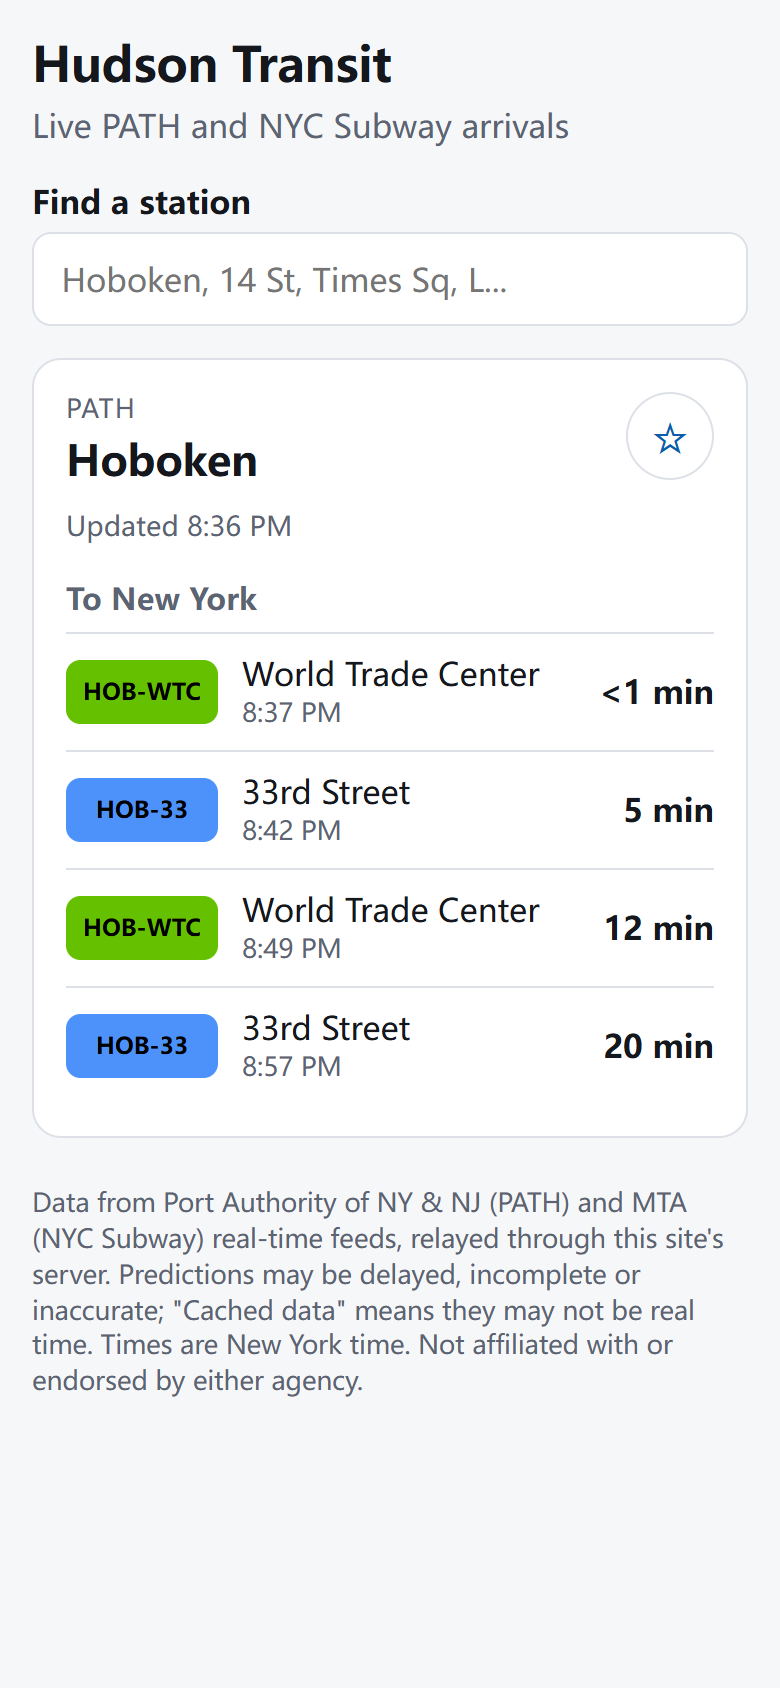
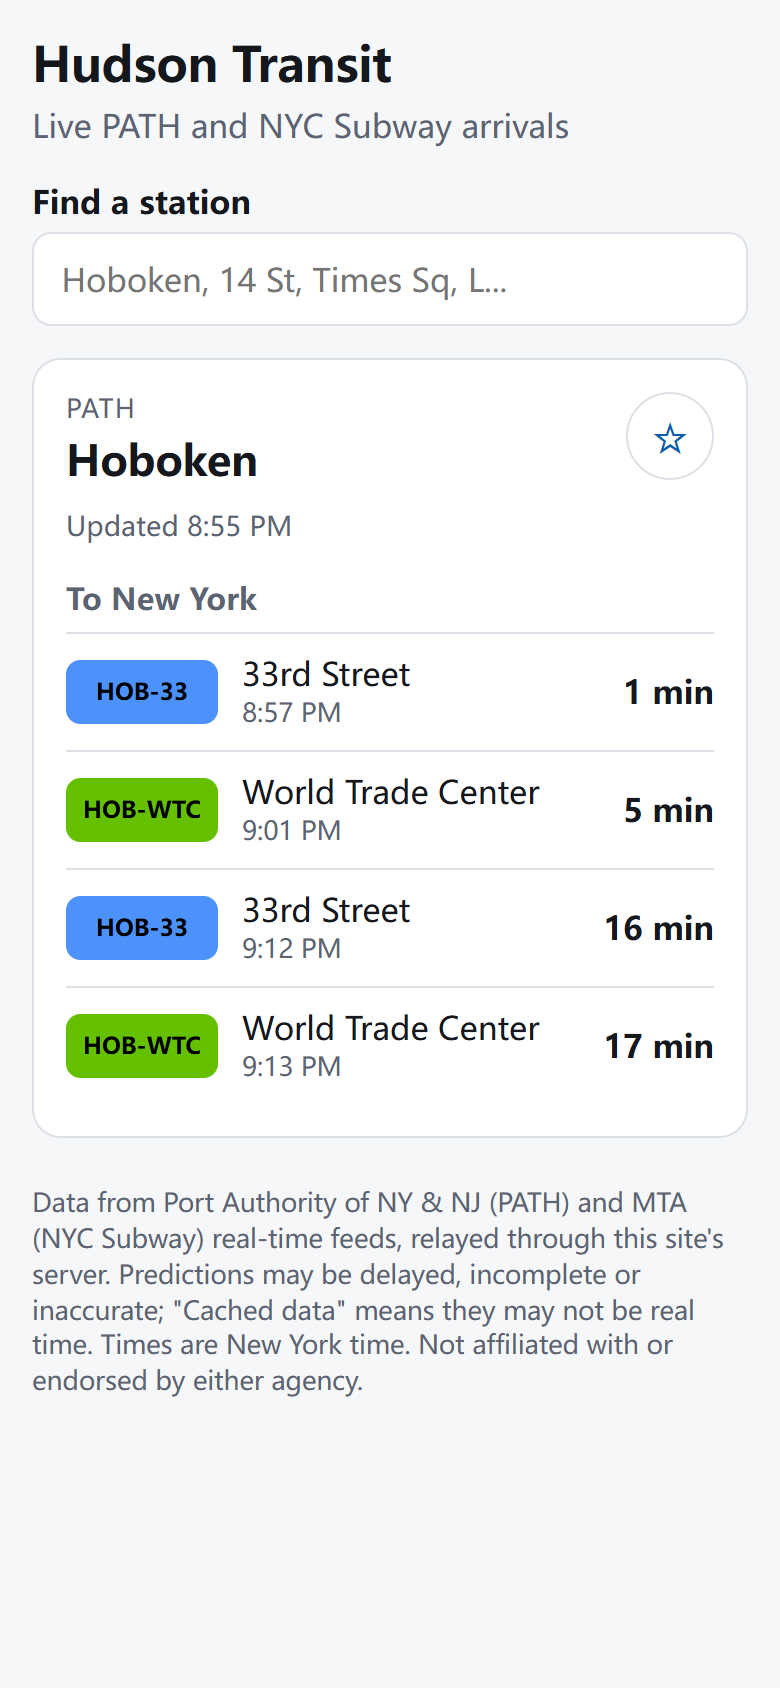
Update README, screenshots and e2e for the board fixes
README: move the probe below the design decisions and trim it to what backs
them, document the per-route cap with the measured before/after, the PATH
shape check, failure backoff and unavailableRoutes, mention
stale-while-revalidate, drop the unbacked 15-30 s refresh claim, and add an
MTA/PATH trademark note. Name is "Yunlong (Adler) Lu" to match the git author.
New e2e test: a board with a failed feed names the missing line instead of
saying there are no trains.

diff --git a/e2e/smoke.spec.ts b/e2e/smoke.spec.ts
@@ -72,6 +72,22 @@ test("favorites persist across reloads", async ({ page }) => {
   ).toHaveText(["14 St-Union Sq"]);
 });
 
+test("says which lines are missing instead of claiming there are no trains", async ({ page }) => {
+  await page.route("**/api/arrivals/*", async (route) => {
+    await route.fulfill({
+      json: {
+        ...board("subway-602", "14 St-Union Sq"),
+        arrivals: [],
+        unavailableRoutes: ["L"],
+        warnings: ["L feed unavailable."],
+      },
+    });
+  });
+  await page.goto("/?station=subway-602");
+  await expect(page.getByText("No live data for L trains right now")).toBeVisible();
+  await expect(page.getByText("No trains predicted in the next hour.")).toHaveCount(0);
+});
+
 test("shows an error with a working retry when the API fails", async ({ page }) => {
   let calls = 0;
   await page.route("**/api/arrivals/*", async (route) => {

diff --git a/README.md b/README.md
@@ -13,58 +13,29 @@ station search, favorites and auto-refresh. No API keys are needed.
 | ---------------------------------------------------------------------------------------- | ----------------------------------------------------------------------------------------------- |
 | <img src="docs/screenshot-light.png" width="260" alt="Hoboken PATH board in light mode"> | <img src="docs/screenshot-dark.png" width="260" alt="14 St-Union Sq subway board in dark mode"> |
 
-Screenshots were captured from live data by `scripts/screenshot.ts` on 2026-09-28 around 8:36 PM ET.
-
-## Results
-
-Upstream feeds and station-index coverage, measured by `npm run probe` (3 rounds, 20 s apart,
-2026-09-29 00:32 UTC, i9-14900HX laptop on a home connection in Hoboken, Node 24). Full output:
-[`results/feed-probe.md`](results/feed-probe.md) / [`results/feed-probe.json`](results/feed-probe.json).
-
-| Feed                   | OK rounds | Median size (KB) | Median fetch (ms) | Median decode + parse (ms) |
-| ---------------------- | --------- | ---------------- | ----------------- | -------------------------- |
-| PATH (`ridepath.json`) | 3/3       | 9.7              | 83                | 1.7                        |
-| MTA 1-7, S             | 3/3       | 176.5            | 143               | 18                         |
-| MTA A/C/E              | 3/3       | 101              | 91                | 5.8                        |
-| MTA B/D/F/M            | 3/3       | 123.9            | 63                | 10.1                       |
-| MTA G                  | 3/3       | 18.6             | 61                | 0.7                        |
-| MTA J/Z                | 3/3       | 23.6             | 53                | 1                          |
-| MTA N/Q/R/W            | 3/3       | 108.1            | 53                | 5                          |
-| MTA L                  | 3/3       | 29.9             | 54                | 3.8                        |
-| MTA SIR                | 3/3       | 6.4              | 44                | 0.5                        |
-
-- Station coverage: in all 3 rounds, 13/13 PATH stations and 445/445 subway complexes had at least one
-  predicted train that the parsers could attach to a named station.
-- About 0.7% of stop references in the MTA feeds (104-105 of ~14,300 per round) use ids that are not in
-  the static GTFS (for example `H19N`, `R60S`); they look like non-revenue timing points. The parser skips
-  them and never shows them as a destination (covered by a unit test).
-- The whole payload for one round (all 9 feeds) is about 600 KB, which is why the server fetches each
-  feed once per TTL and shares it across all stations instead of fetching per request.
-
-Tests: 66 vitest unit tests (parsers and normalizers against committed real snapshots, cache, route
-handler, search, time zones) and 4 Playwright smoke tests against the production build with a mocked
-API. These are correctness tests only; there is no load testing or production traffic data.
+Screenshots were captured from live data by `scripts/screenshot.ts` on 2026-09-28 around 8:55 PM ET.
 
 ## Architecture
 
 ```
 Browser (client component)                    Next.js server (Node runtime)
-+----------------------------+   GET          +------------------------------------------+
-| StationSearch (combobox)   | /api/arrivals/ | route.ts  -> buildBoard(stationId, deps) |
-| favorites (localStorage)   |  path-HOB      |   PATH:   feed cache -> parsePathFeed    |
-| useArrivals: poll 30 s     | -------------> |   Subway: 8 feed caches -> subwayArrivals|
-|   only while tab visible   | <------------- |   trim to next hour, 6 per direction     |
-| relative "N min" from now  |  Board (zod)   |   BoardSchema.parse(board) -> JSON       |
-+----------------------------+                +------------------+-----------------------+
-                                                                 | fetch, 6 s timeout
++----------------------------+   GET          +-------------------------------------------+
+| StationSearch (combobox)   | /api/arrivals/ | route.ts  -> buildBoard(stationId, deps)  |
+| favorites (localStorage)   |  path-HOB      |   PATH:   feed cache -> parsePathFeed     |
+| useArrivals: poll 30 s     | -------------> |   Subway: 8 feed caches -> subwayArrivals |
+|   only while tab visible   | <------------- |   trim: next hour, 3 per route+direction  |
+| relative "N min" from now  |  Board (zod)   |   BoardSchema.parse(board) -> JSON        |
++----------------------------+                +-------------------+-----------------------+
+                                                                  | fetch, 6 s timeout
                                                createFeedCache: TTL 20 s, coalesced,
-                                               stale-if-error up to 5 min
-                                                                 |
+                                               stale-if-error up to 5 min, 20 s failure backoff
+                                                                  |
                                    panynj.gov ridepath.json   api-endpoint.mta.info (x8 protobuf)
 ```
 
 - `src/lib/path.ts`, `src/lib/mta.ts`: pure parsers from raw upstream data to `Arrival[]`.
-- `src/lib/feed-cache.ts`, `src/lib/feeds.ts`: per-feed TTL cache with request coalescing and stale fallback.
+- `src/lib/feed-cache.ts`, `src/lib/feeds.ts`: per-feed TTL cache with request coalescing, stale
+  fallback and failure backoff. The PATH shape check runs inside the loader.
 - `src/lib/board.ts`: station id to `Board`; dependencies are injected so tests run on fixtures.
 - `data/subway-stations.json`: 445 station complexes / 496 stops, generated by `scripts/build-stations.ts`.
 
@@ -97,38 +68,77 @@ npm run fixtures       # re-record tests/fixtures/*
 npm run probe          # rewrite results/feed-probe.{json,md}
 ```
 
+Tests: 78 vitest unit tests (parsers against committed real snapshots, board building with synthetic
+feeds, cache, route handler, search, time zones) and 5 Playwright smoke tests against the production
+build with a mocked API. These are correctness tests only; there is no load testing or production
+traffic data.
+
 ## Design decisions
 
+- **Cap trains per route and direction, not per direction.** At a hub, several lines share one
+  direction label (the 1/2/3, N/Q/R/W and A/C/E platforms at Times Sq all say "Uptown"). An earlier
+  version kept 6 trains per label, so the most frequent lines filled every slot and whole lines
+  vanished. The board now keeps the next hour with at most 3 trains per (direction, route). On live
+  data the old rule hid at least one route at 24-27 of 445 complexes per probe round (at Times Sq:
+  the 3, C, Q or R); the current rule hid none (see [Feed probe](#feed-probe)). A unit test rebuilds
+  Times Sq from the A/C/E snapshot plus synthetic 1/2/3 and N/Q/R/W feeds and fails under the old rule.
 - **Absolute timestamps in the API, relative labels on the client.** The server returns epoch ms and
-  the client computes "in N min" against its own clock every 10 s. A board cached for 15 s at the CDN
-  or kept after a failed refresh therefore still counts down correctly.
+  the client computes "in N min" against its own clock every 10 s. A board cached at the CDN or kept
+  after a failed refresh therefore still counts down correctly.
 - **Explicit time zones.** PATH timestamps carry their UTC offset (`-04:00`) and are parsed with it
   (after trimming microseconds, which ECMAScript does not guarantee to parse); GTFS-rt times are POSIX
   seconds. Clock times are formatted with `timeZone: "America/New_York"`. The unit tests run with
   `TZ=Asia/Tokyo` so code that leans on the machine's zone fails, and they cover the DST fall-back hour.
-- **One shared, short-lived cache per feed with stale-if-error.** Upstreams refresh every ~15-30 s, so
-  a 20 s TTL loses little freshness while turning N concurrent station requests into one upstream call.
-  If a refresh fails, data up to 5 minutes old is served and flagged `stale`; the UI shows "Cached data"
-  instead of a blank board. Past 5 minutes that feed counts as unavailable (503 if no feed has data), because old predictions
-  mislead.
+- **One shared, short-lived cache per feed, with stale-if-error and backoff.** Arrivals are shown in
+  whole minutes, so a 20 s TTL costs little accuracy while N concurrent station requests share one
+  upstream call. If a refresh fails (network error, timeout, non-200, or a PATH body with the wrong
+  shape), data up to 5 minutes old is served and flagged `stale`, and the next retry waits 20 s so a
+  hung upstream does not make every request wait for the 6 s timeout. Past 5 minutes that feed
+  counts as unavailable, because old predictions mislead.
+- **Say what is missing instead of showing an empty board.** Each station's routes map to the feeds
+  that carry them. If one of those feeds is down, the board lists the affected routes in a visible
+  note (`unavailableRoutes`), and if all of them are down the API returns 503. For the subway,
+  `dataAsOf` is the feed's own header timestamp, and a header more than 2 minutes old marks the board
+  stale; in the probe, MTA headers were 0-12 s old at fetch time.
 - **Query every MTA feed for every station.** Station data only lists daytime routes, and at night other
   lines run local (for example the D along 4 Av, which is in a different feed than the R). Since each
-  feed is cached and shared, checking all eight cost about 0.5-0.8 ms of CPU per station in the probe
-  (238-357 ms to scan all 445 complexes).
-- **Station data from two official sources.** Static GTFS `stops.txt` gives stop names and `routes.txt`
-  route colors, but not which platforms form one complex or what riders call each direction. The MTA
-  "Subway Stations" dataset adds complex ids and labels like "Uptown" or "Brooklyn". Both are joined at
-  build time into a 75 KB JSON so the client can search without a network round trip.
+  feed is cached and shared, this is cheap: matching all 445 complexes against all eight decoded feeds
+  took 102-239 ms of wall time per probe round.
 - **Server-side relay only.** Browsers never call PATH or MTA directly: the MTA data terms ask apps to
   serve data from their own servers, and it also avoids CORS and keeps the client payload small.
+
+## Feed probe
+
+Measured by `npm run probe` (3 rounds, 20 s apart, 2026-09-29 00:53-00:54 UTC, i9-14900HX laptop on a
+home connection in Hoboken, Node 24). Full output, including per-feed fetch times:
+[`results/feed-probe.md`](results/feed-probe.md) / [`results/feed-probe.json`](results/feed-probe.json).
+
+- Station coverage: in all 3 rounds, 13/13 PATH stations and 445/445 subway complexes had at least one
+  predicted train that the parsers could attach to a named station.
+- About 0.7% of stop references in the MTA feeds (97-98 of ~13,800 per round) use ids that are not in
+  the static GTFS (for example `H19N`, `R60S`); they look like non-revenue timing points. The parser skips
+  them and never shows them as a destination (covered by a unit test).
+- One round of all nine feeds is about 574 KiB (1-7/S alone is 179 KiB), which is why the server fetches
+  each feed once per TTL and shares it across stations instead of fetching per request.
+- Data age at fetch time: MTA feed headers were 0-12 s old. PATH has no feed-level timestamp; the newest
+  per-prediction `lastUpdated` was 36-70 s old, and quiet stations can be older, so PATH boards use
+  the server's fetch time as `dataAsOf` and are not checked for freezing.
+- Cap check: see the first design decision.
 
 ## Limitations
 
 - The cache is in-process memory, so on Vercel each serverless instance has its own copy and a cold
   instance must fetch before it can serve stale data. A shared store (for example Redis) would fix
   this; it is not implemented.
-- The CDN `s-maxage=15` header plus the 20 s server TTL and 30 s client poll mean that in the worst case a
-  prediction can be over a minute old when it reaches the screen (upstream staleness not included).
+- Worst-case staleness adds up: the route sends `Cache-Control: s-maxage=15, stale-while-revalidate=15`,
+  the server TTL is 20 s and the client polls every 30 s, so a prediction can be over a minute old
+  when it reaches the screen (upstream delay not included).
+- A frozen PATH feed is not detected (see above); only MTA feeds are checked.
+- Relative times use the device clock. A phone whose clock is off by a minute shows countdowns off by a
+  minute. Correcting it from the response is unreliable here because CDN-cached responses carry an
+  older `generatedAt`.
+- At the largest hubs the board is long (Times Sq can show about 30 trains per direction, 3 for each of
+  about 10 routes). Grouping rows by line would read better; it is not implemented.
 - No MTA service alerts, elevator status or PATH advisories; only arrival predictions.
 - Trains that terminate at the selected station are hidden (you cannot board them). Destinations use
   the last stop the feed lists, which during reroutes can differ from the train's signed destination.
@@ -139,8 +149,9 @@ npm run probe          # rewrite results/feed-probe.{json,md}
 ## Data sources and terms
 
 - PATH real-time: `https://www.panynj.gov/bin/portauthority/ridepath.json` (Port Authority of NY & NJ).
-  No published license was found for this endpoint; the repo includes one 9.6 KB snapshot as a test
-  fixture only, and `npm run fixtures` re-records it.
+  No license or developer terms were found for this endpoint (the site footer reads "All Rights
+  Reserved"). The repo includes one 9.4 KiB snapshot (9,586 bytes of train predictions) as a test
+  fixture only, and `npm run fixtures` re-records it; it will be removed on request.
 - MTA subway GTFS-realtime feeds: `https://api-endpoint.mta.info/Dataservice/mtagtfsfeeds/nyct%2Fgtfs`
   (and `-ace`, `-bdfm`, `-g`, `-jz`, `-nqrw`, `-l`, `-si`), used under the MTA data feed terms
   (https://www.mta.info/developers/terms-and-conditions). Three small snapshots are committed as fixtures.
@@ -148,8 +159,10 @@ npm run probe          # rewrite results/feed-probe.{json,md}
 - MTA Subway Stations on NY Open Data: https://data.ny.gov/d/39hk-dx4f (NY Open Data terms of use).
 
 This project is not affiliated with or endorsed by the MTA or the Port Authority, and makes no claim
-that the data is accurate, complete or timely.
+that the data is accurate, complete or timely. Subway route names, colors and bullet designs are MTA
+trademarks and PATH line names belong to the Port Authority; they are used only to identify the
+services.
 
 ## License
 
-MIT, copyright 2026 Yunlong Lu. See [LICENSE](LICENSE). Data remains subject to the terms above.
+MIT, copyright 2026 Yunlong (Adler) Lu. See [LICENSE](LICENSE). Data remains subject to the terms above.
